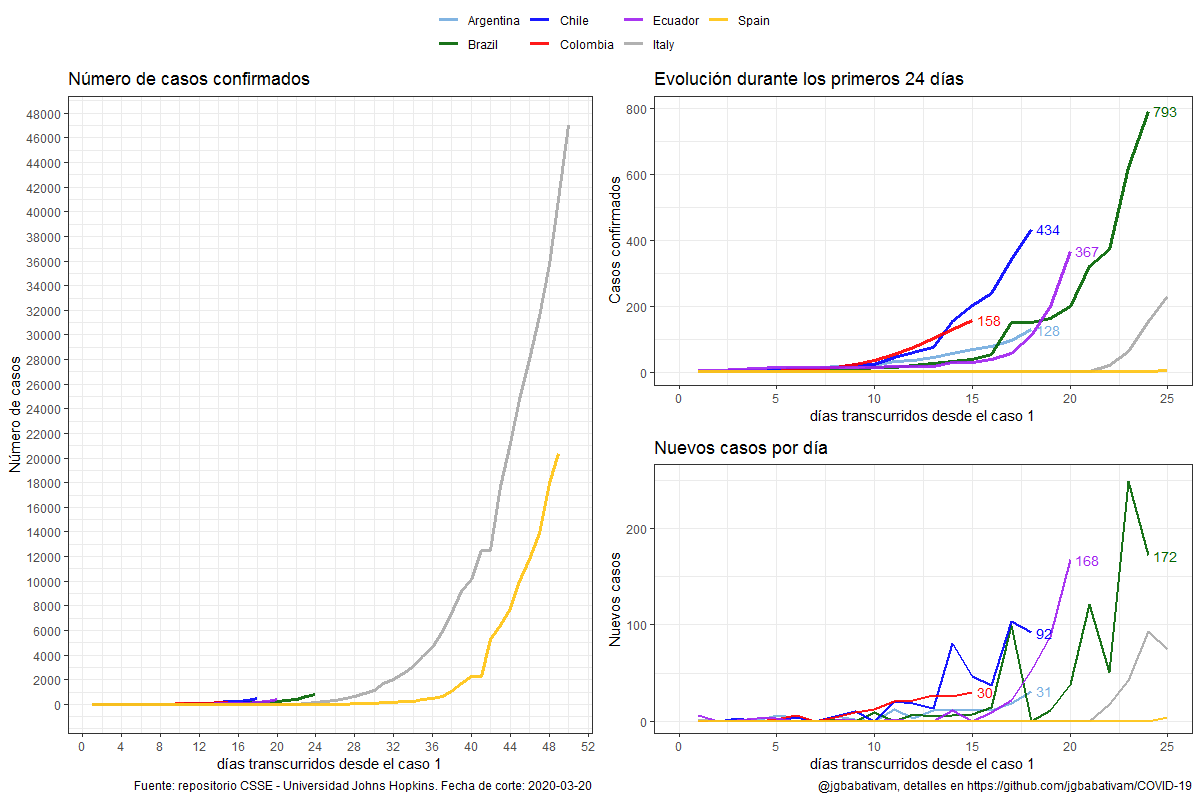
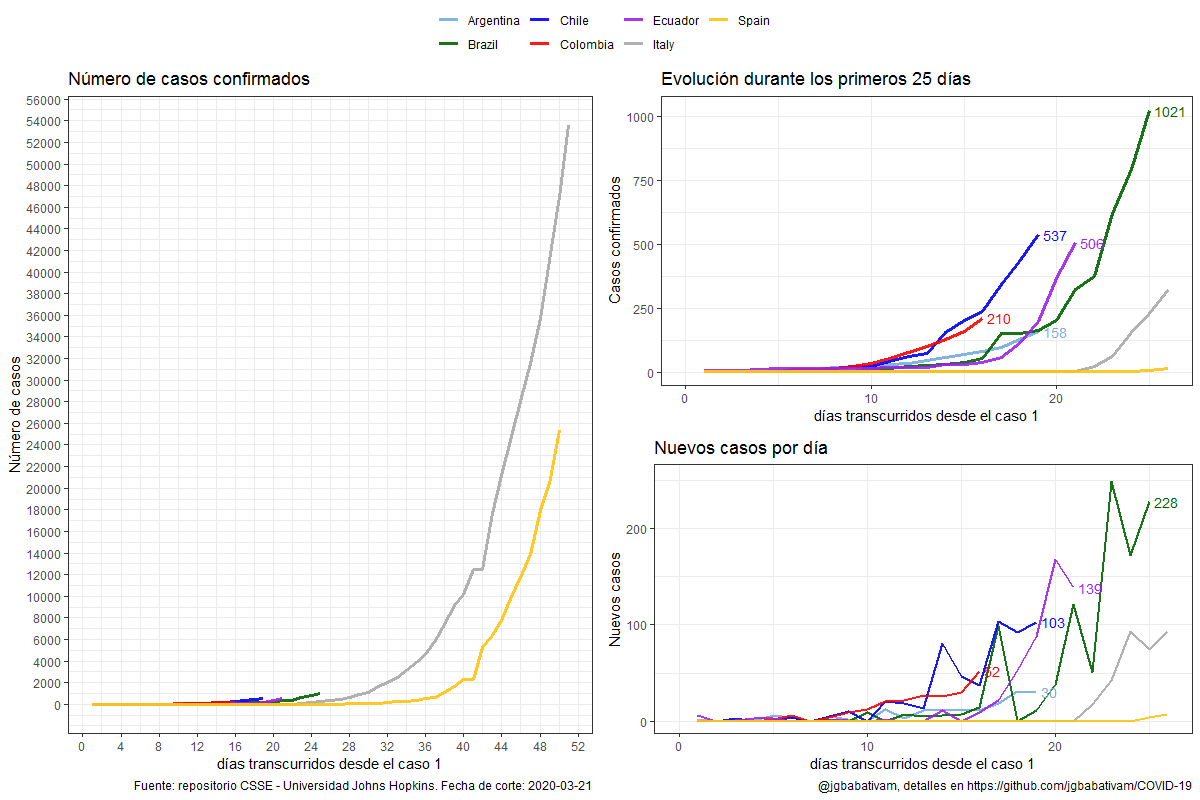
Update 22 marzo

diff --git a/README.md b/README.md
@@ -15,7 +15,9 @@ Los datos se toman del repositorio CSSE de la Universidad Johns Hopkins (https:/
 
 Como lo indica la fuente, estos datos se obtuvieron de la Organización Mundial de la Salud y de varias instituciones estatales de salud. Los datos son propiedad de la Universidad John Hopkins y están disponibles para fines de investigación académica o de enseñanza. Dado que los datos provienen de diferentes fuentes, no hay garantía de la precisión de los mismos, por lo que es incorrecto utilizarlos con fines médicos o comerciales. Si se desea realizar un análisis de ese tipo por favor use las fuentes oficiales de cada país (https://github.com/CSSEGISandData/COVID-19). 
 
-En el caso de los datos para Colombia, la información se toma del reporte del Instituto Nacional de Salud con corte a las 20:00 hrs de cada día, el cual se encuentra en https://www.ins.gov.co/Noticias/Paginas/Coronavirus.aspx. Para mayor información sobre el proceso de los datos se recomienda revisar el archivo COVID19Col.R.
+En el caso de los datos para Colombia, la información se toma del reporte del Instituto Nacional de Salud con corte a las 20:00 hrs de cada día, el cual se encuentra en https://www.ins.gov.co/Noticias/Paginas/Coronavirus.aspx. Para mayor información sobre el proceso de los datos se recomienda revisar el archivo COVID19Col.R. 
+
+Las tasas de confirmados fueron calculadas con base en la información poblacional del mundo reportada en la página www.census.gov, para el caso de los países de América del Sur se excluye a Guyana, Surinam y Guyana Francesa, la información se toma de este [link] (https://es.wikipedia.org/wiki/Anexo:Pa%C3%ADses_de_Am%C3%A9rica_del_Sur_por_poblaci%C3%B3n) donde además se comparó la cifra poblacional para Colombia con su fuente oficial del [DANE] (https://www.dane.gov.co/index.php/estadisticas-por-tema/demografia-y-poblacion/proyecciones-de-poblacion).
 
 ## Advertencias
 
@@ -36,16 +38,15 @@ Finalmente recuerde que acá solo se comparan algunos países que me parecieron 
 ## Comparaciones entre países
 
 <image src="images/compara.png"> 
-<image src="images/worldmap.png"> 
 
-<<<<<<< HEAD
-El siguiente gráfico compara la tasa de contagio por cada 100 mil habitantes, para la población mundial se utilizó la información reportada por https://www.census.gov/popclock/world, en el caso de América del Sur se excluye a Guyana, Surinam y Guyana Francesa, la población se obtuvo del siguiente enlace (https://es.wikipedia.org/wiki/Anexo:Pa%C3%ADses_de_Am%C3%A9rica_del_Sur_por_poblaci%C3%B3n) donde además se verificó la consistencia de la información para Colombia frente a las proyecciones DANE 2020. La tasa de contagio se calcula con los casos confirmados en determinada fecha en la región y se divide por el total poblacional de la región, ese resultado es multiplicado por un millón.
-=======
-El siguiente gráfico compara la tasa de contagio por cada 100 mil habitantes, para la población mundial se utilizó la información reportada por https://www.census.gov/popclock/world, en el caso de América del Sur se excluye a Guyana, Surinam y Guyana Francesa, la población se obtuvo del siguiente enlace (https://es.wikipedia.org/wiki/Anexo:Pa%C3%ADses_de_Am%C3%A9rica_del_Sur_por_poblaci%C3%B3n) donde además se verificó la consistencia de la información para Colombia frente a las proyecciones DANE 2020. La tasa de contagio se calcula con los casos confirmados en determinada fecha en la región y se divide por el total poblacional de la región, ese resultado es multiplicado por un millón. Para ver los detalles consulte el script COVID19Col.R.
->>>>>>> 4f6c8507a1d7b16495460ee0334416d0f22b01e4
+El siguiente gráfico compara la tasa diaria de casos confirmados por cada millón de habitantes. La tasa se calcula con los casos confirmados en la región en la fecha determinada y se divide por el total poblacional de la región, ese resultado es multiplicado por un millón. Para ver los detalles consulte el script COVID19Col.R.
 
 <image src="images/TasaContagio.png">
 
+<image src="images/worldmap.png"> 
+  
 ## Gráficos específicos para Colombia
 
+<image src="images/EvolMapCol.gif"> 
+  
 <image src="images/EvolCol.gif"> 
